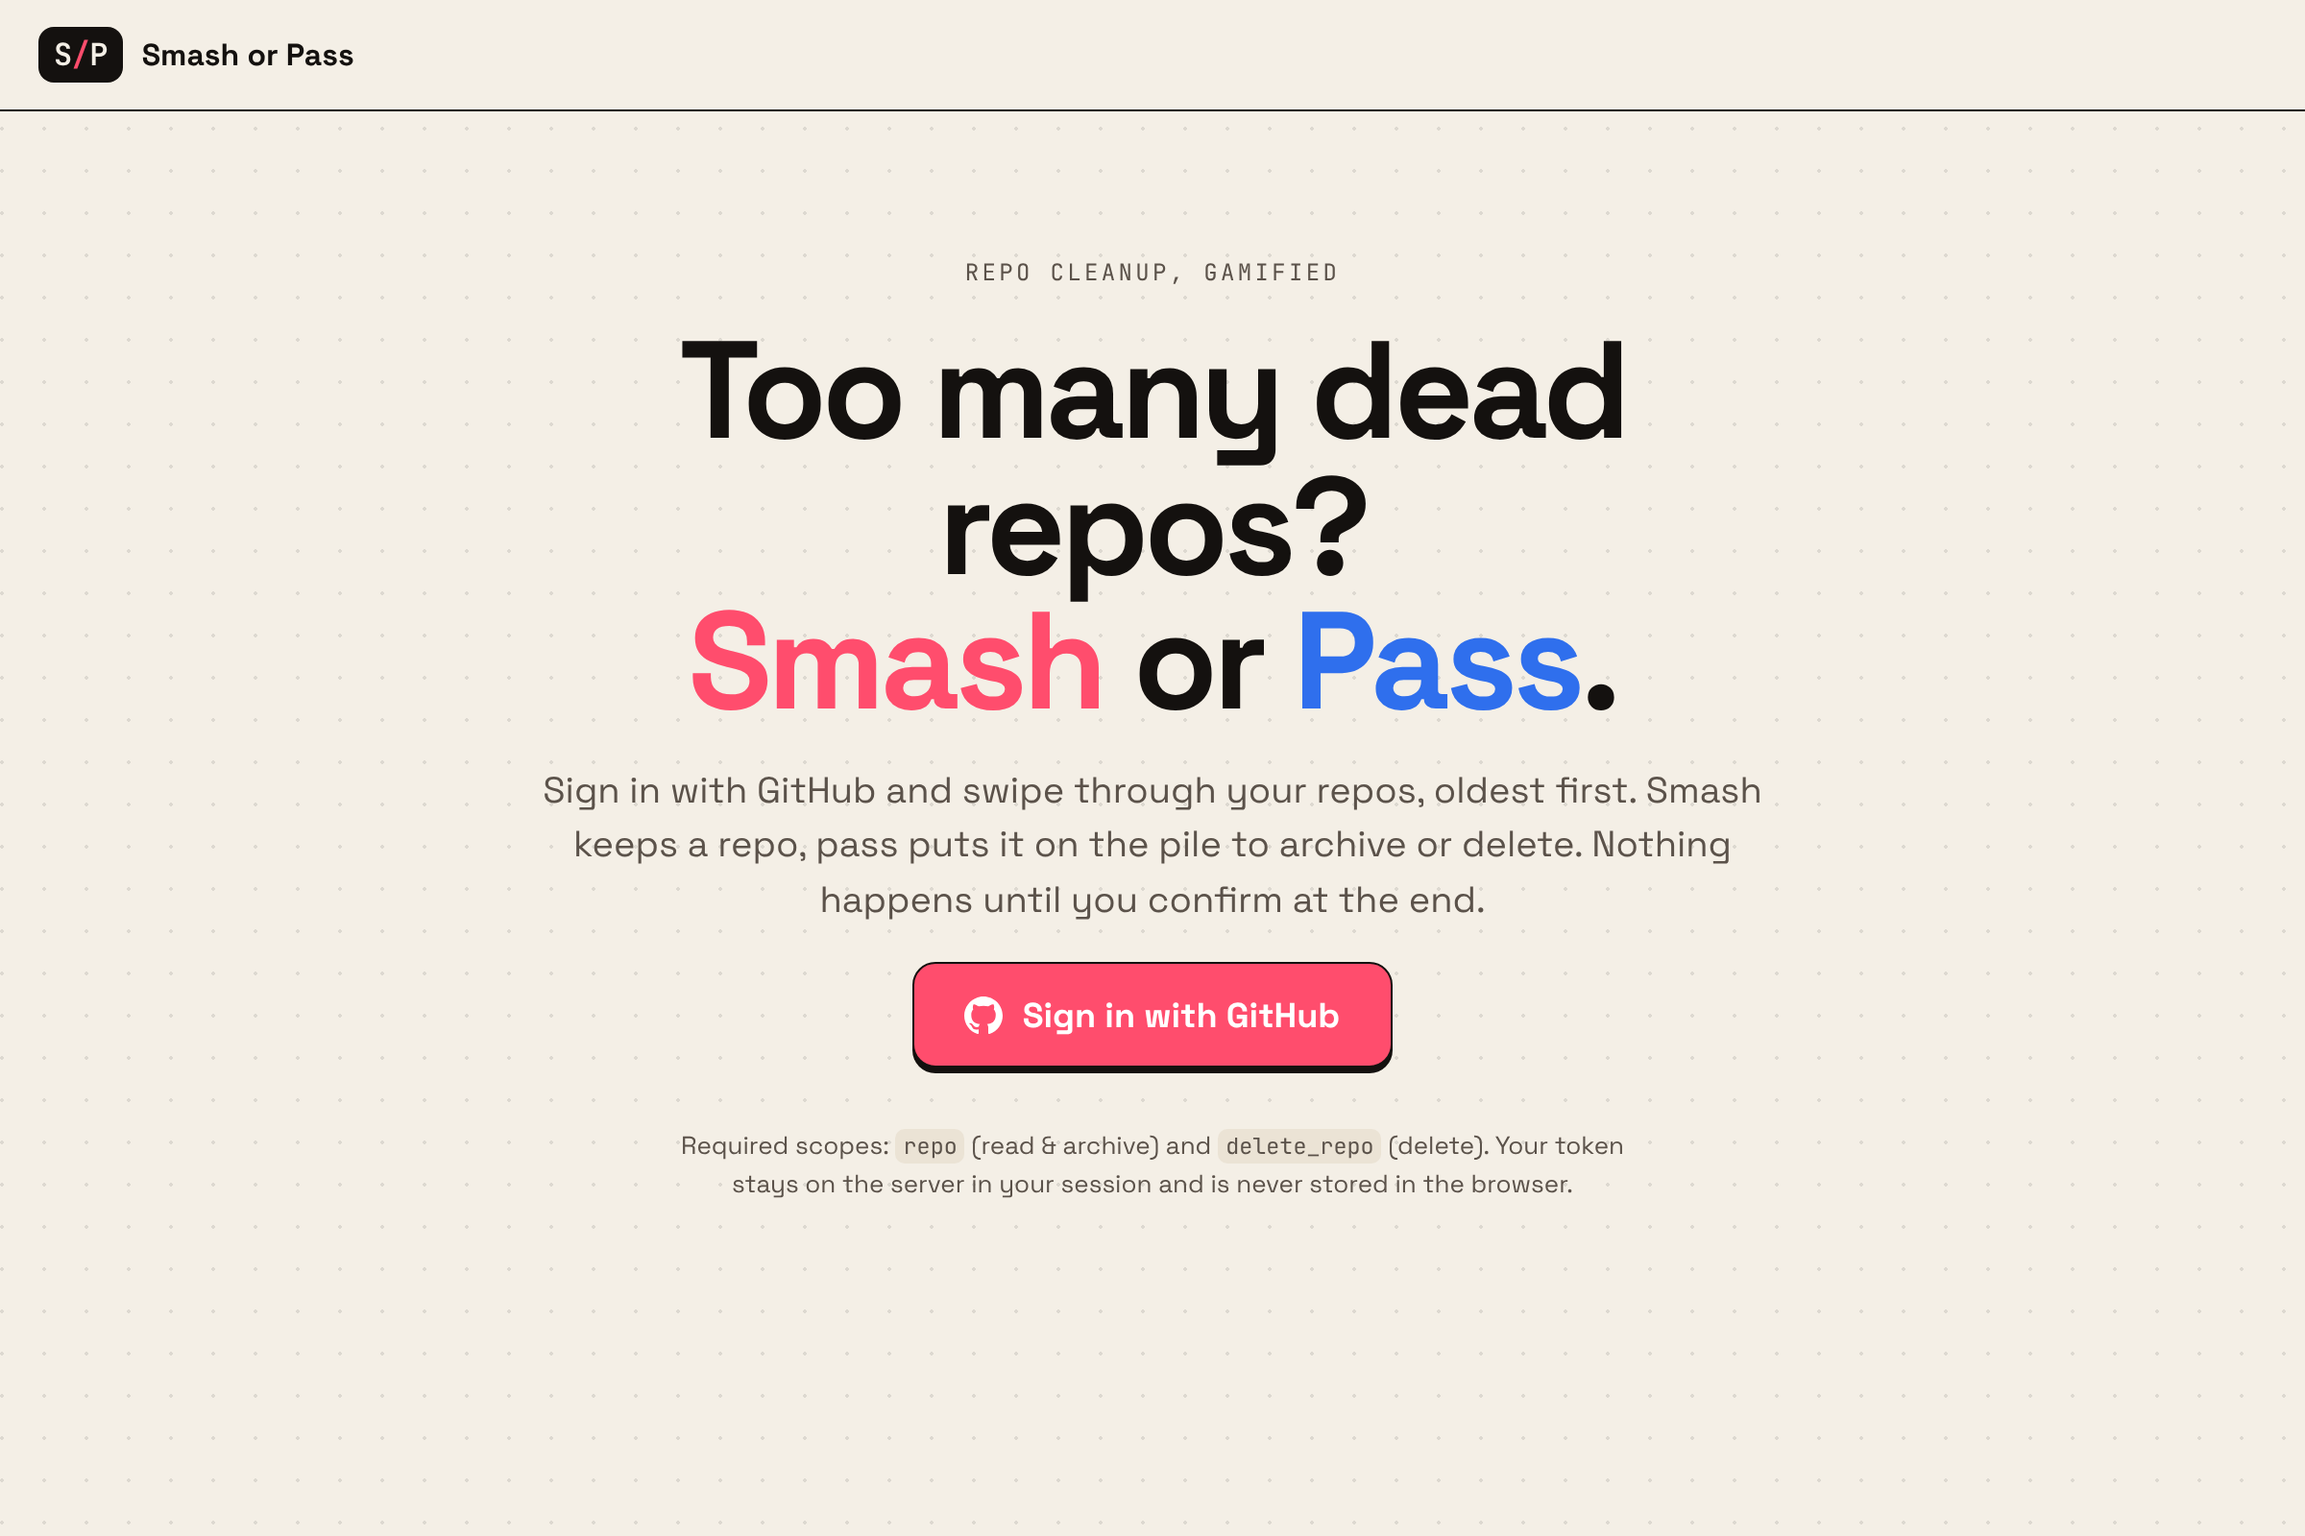
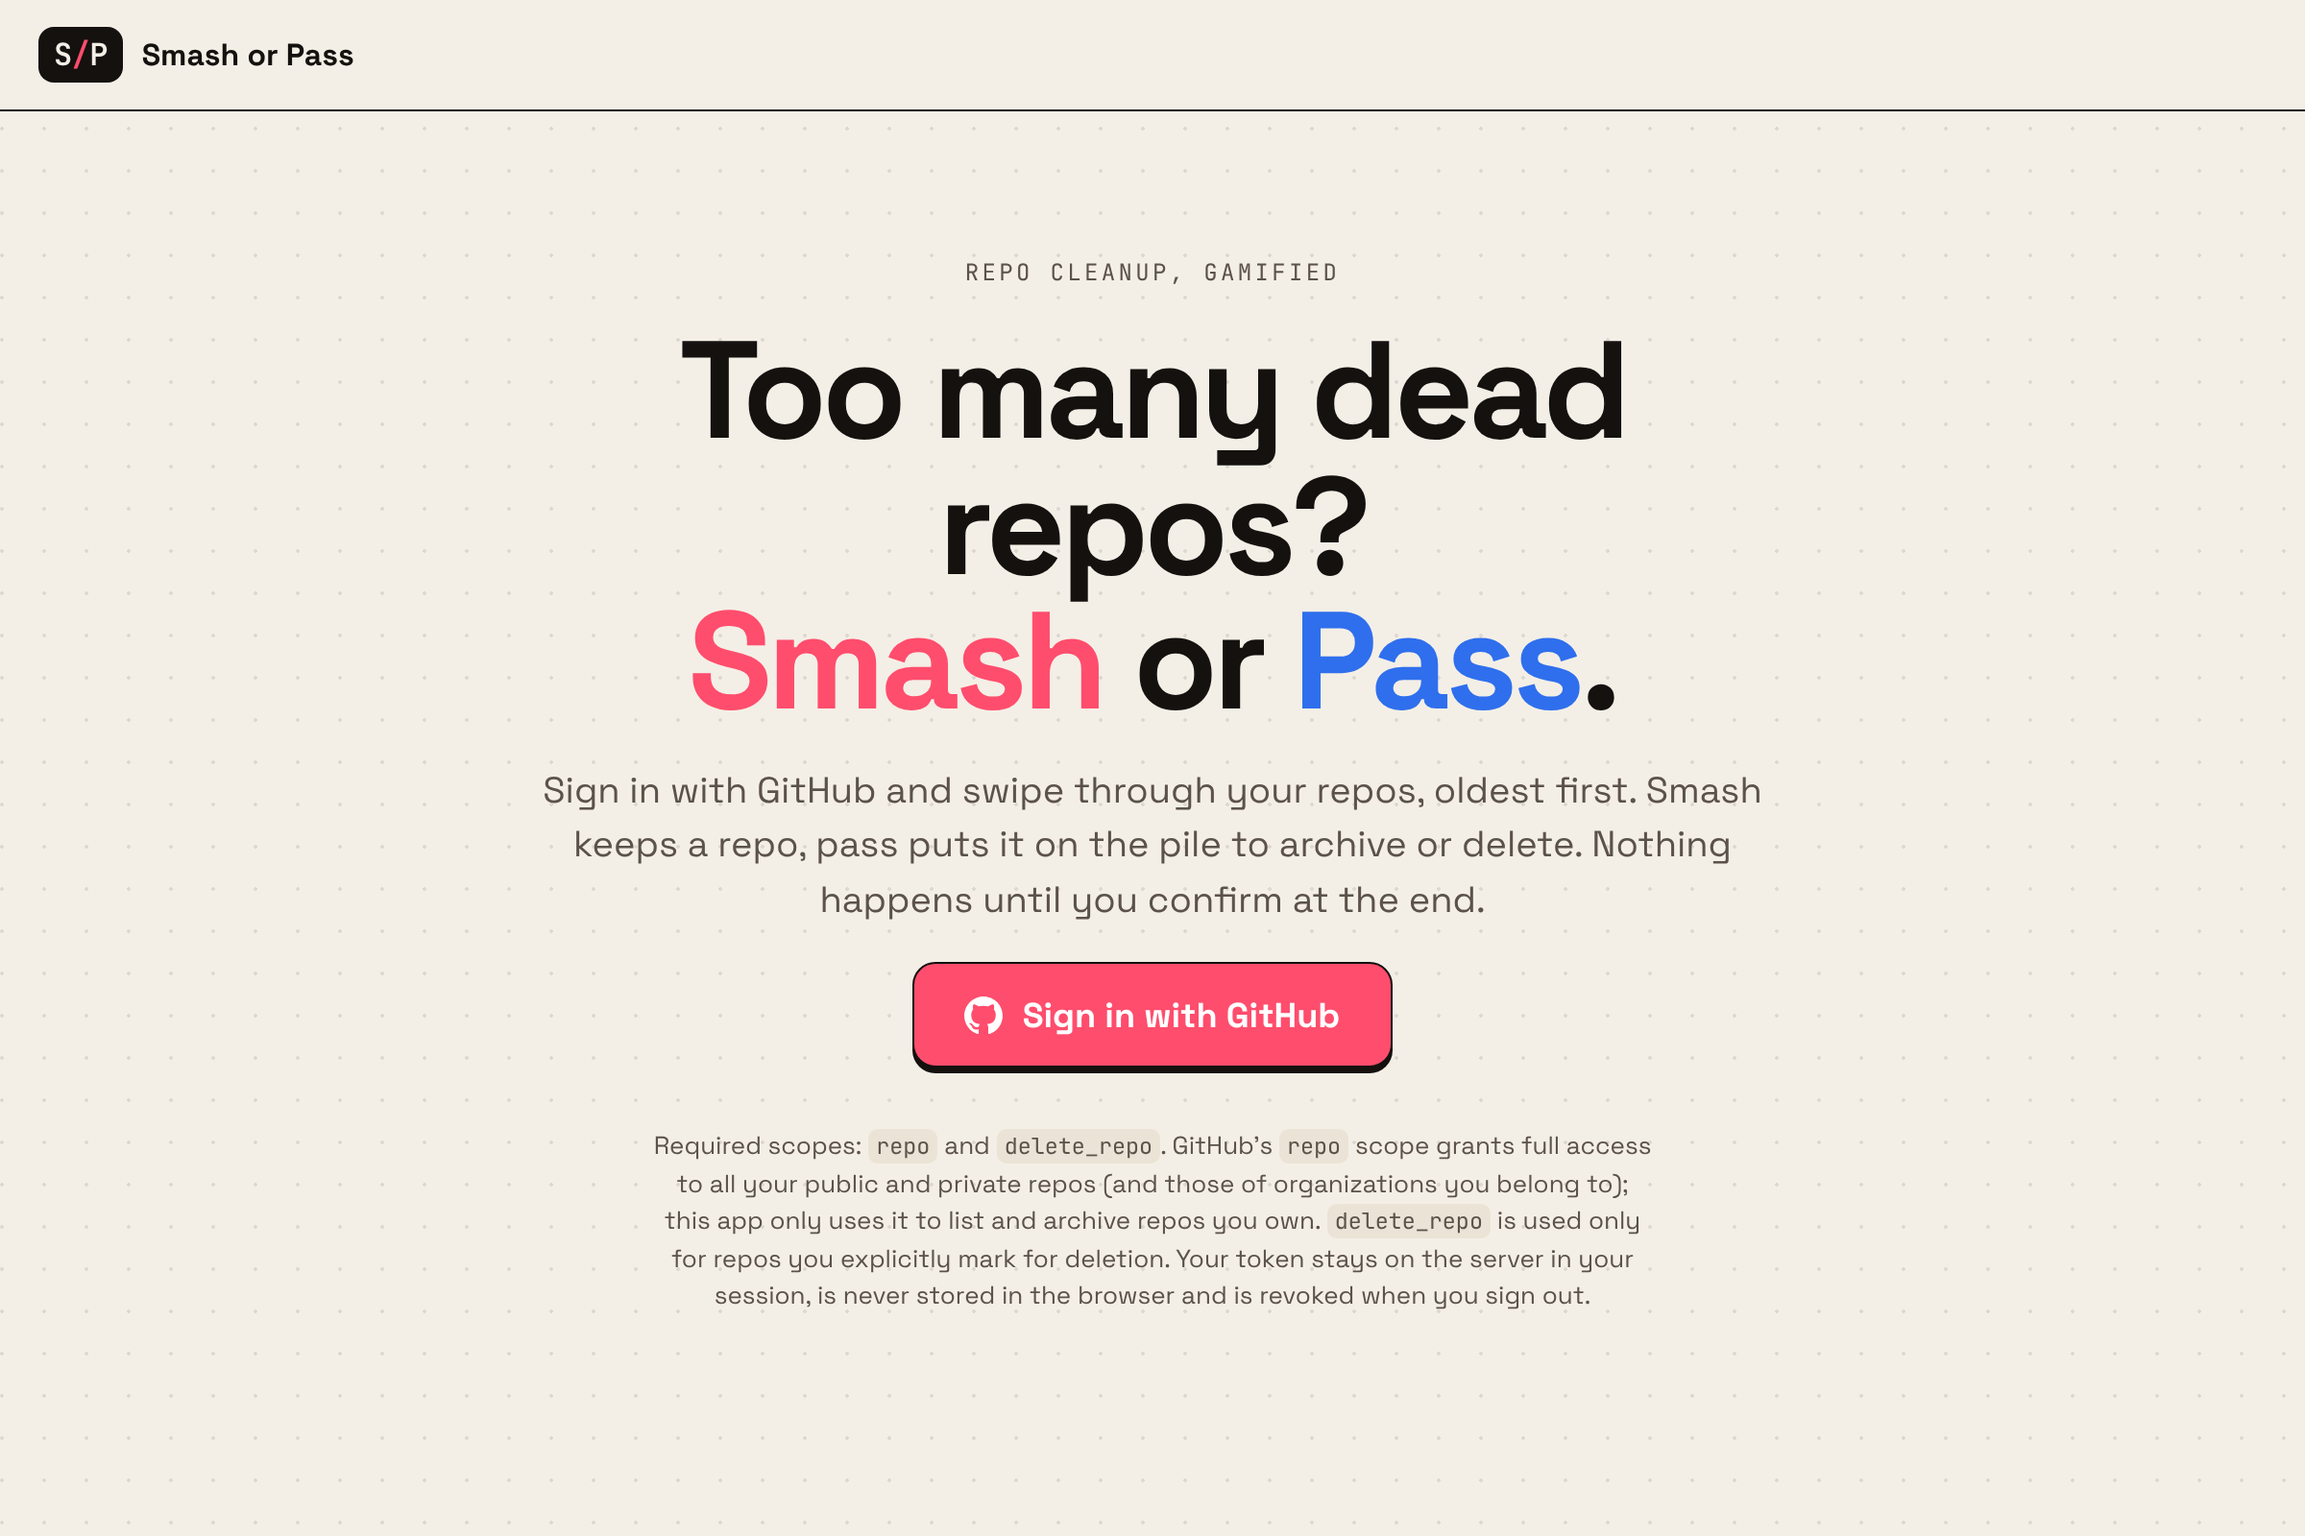
Address CodeRabbit review findings
- Keep the OAuth state in a short lived cookie and create server side
  sessions only after a successful login, so anonymous requests cannot
  exhaust the session store
- Skip malformed cookies instead of failing the request
- Follow GitHub pagination via the Link header without a page cap
- Only commit a swipe on pointerup, never on pointercancel
- Clear stale repos while reloading, keep focus when picking an action,
  block "Play again" while a batch runs, report sign out failures
- Describe the real reach of the repo scope on the login page

Claude-Session: https://claude.ai/code/session_01Lc3ZkSvrXpxHWGorVy9q2e

Changed region(s): [[0.2812, 0.7188, 0.7188, 0.8438]]

diff --git a/server.js b/server.js
@@ -1,5 +1,5 @@
 import http from 'node:http';
-import { randomBytes } from 'node:crypto';
+import { randomBytes, timingSafeEqual } from 'node:crypto';
 import { readFile } from 'node:fs/promises';
 import { extname, join, normalize, dirname, sep } from 'node:path';
 import { fileURLToPath } from 'node:url';
@@ -17,7 +17,7 @@ const CLIENT_SECRET = process.env.GITHUB_CLIENT_SECRET;
 const SECURE_COOKIE = BASE_URL.startsWith('https://');
 const PUBLIC_DIR = join(dirname(fileURLToPath(import.meta.url)), 'public');
 const SESSION_TTL_MS = 1000 * 60 * 60 * 8;
-const LOGIN_TTL_MS = 1000 * 60 * 10; // anonymous sessions only live for the OAuth round trip
+const STATE_TTL_S = 60 * 10; // the OAuth round trip must finish within 10 minutes
 const MAX_SESSIONS = 50_000;
 // repo: read private repos + archive, delete_repo: delete repos
 const OAUTH_SCOPE = 'repo delete_repo read:user';
@@ -48,35 +48,46 @@ function parseCookies(req) {
   const out = {};
   for (const part of (req.headers.cookie || '').split(';')) {
     const i = part.indexOf('=');
-    if (i > 0) out[part.slice(0, i).trim()] = decodeURIComponent(part.slice(i + 1).trim());
+    if (i <= 0) continue;
+    try {
+      out[part.slice(0, i).trim()] = decodeURIComponent(part.slice(i + 1).trim());
+    } catch {
+      // skip malformed cookie values instead of failing the whole request
+    }
   }
   return out;
 }
 
-function getSession(req, res, create = false) {
+function getSession(req) {
   const id = parseCookies(req).sop_sid;
-  const existing = id && sessions.get(id);
-  if (existing && existing.expires > Date.now()) {
-    if (existing.token) existing.expires = Date.now() + SESSION_TTL_MS;
-    return existing;
-  }
-  if (!create) return null;
-  if (sessions.size >= MAX_SESSIONS) return null;
-  const newId = randomBytes(32).toString('hex');
-  const session = { expires: Date.now() + LOGIN_TTL_MS };
-  sessions.set(newId, session);
-  res.setHeader('Set-Cookie', cookie('sop_sid', newId, SESSION_TTL_MS / 1000));
+  const session = id && sessions.get(id);
+  if (!session || session.expires <= Date.now()) return null;
+  session.expires = Date.now() + SESSION_TTL_MS;
   return session;
 }
 
-// New session id after login so a pre-set cookie can never be reused (session fixation)
-function rotateSession(req, res, session) {
+// Sessions are only created after a successful GitHub login, so anonymous
+// requests can never fill the session store. A fresh id is issued every time
+// (no session fixation) and any previous session of this browser is dropped.
+function createSession(req, data) {
   const oldId = parseCookies(req).sop_sid;
   if (oldId) sessions.delete(oldId);
-  const newId = randomBytes(32).toString('hex');
-  session.expires = Date.now() + SESSION_TTL_MS;
-  sessions.set(newId, session);
-  res.setHeader('Set-Cookie', cookie('sop_sid', newId, SESSION_TTL_MS / 1000));
+  if (sessions.size >= MAX_SESSIONS) evictOldestSession();
+  const id = randomBytes(32).toString('hex');
+  sessions.set(id, { ...data, expires: Date.now() + SESSION_TTL_MS });
+  return cookie('sop_sid', id, SESSION_TTL_MS / 1000);
+}
+
+function evictOldestSession() {
+  // Map keeps insertion order, so the first entry is the oldest session
+  const oldest = sessions.keys().next().value;
+  if (oldest) sessions.delete(oldest);
+}
+
+function safeEqual(a, b) {
+  const x = Buffer.from(String(a));
+  const y = Buffer.from(String(b));
+  return x.length === y.length && timingSafeEqual(x, y);
 }
 
 function cookie(name, value, maxAge) {
@@ -151,12 +162,12 @@ async function revokeToken(token) {
 
 async function fetchAllRepos(token) {
   const repos = [];
-  for (let page = 1; page <= 30; page++) {
+  for (let page = 1; ; page++) {
     const r = await github(token, `/user/repos?affiliation=owner&per_page=100&page=${page}&sort=pushed&direction=asc`);
     if (!r.ok) throw Object.assign(new Error(`GitHub ${r.status}`), { status: r.status });
     const batch = await r.json();
     repos.push(...batch);
-    if (batch.length < 100) break;
+    if (batch.length === 0 || !/\brel="next"/.test(r.headers.get('link') || '')) break;
   }
   return repos.map((repo) => ({
     id: repo.id,
@@ -198,7 +209,7 @@ async function sendGithubError(res, r, fallback) {
 const REPO_PATH = /^\/api\/repos\/([A-Za-z0-9-]+)\/([A-Za-z0-9._-]+)(\/archive)?$/;
 
 async function handleApi(req, res, url) {
-  const session = getSession(req, res);
+  const session = getSession(req);
 
   if (url.pathname === '/api/me') {
     if (!session?.token) return sendJson(res, 401, { error: 'not_authenticated' });
@@ -242,24 +253,27 @@ async function handleApi(req, res, url) {
 
 async function handleAuth(req, res, url) {
   if (url.pathname === '/auth/login') {
-    const session = getSession(req, res, true);
-    if (!session) return sendJson(res, 503, { error: 'Too many sessions, try again later' });
-    session.state = randomBytes(16).toString('hex');
+    // The OAuth state lives in a short-lived HttpOnly cookie, nothing is stored server side
+    const state = randomBytes(16).toString('hex');
+    res.setHeader('Set-Cookie', cookie('sop_state', state, STATE_TTL_S));
     const params = new URLSearchParams({
       client_id: CLIENT_ID,
       redirect_uri: `${BASE_URL}/auth/callback`,
       scope: OAUTH_SCOPE,
-      state: session.state,
+      state,
       allow_signup: 'false',
     });
     return redirect(res, `https://github.com/login/oauth/authorize?${params}`);
   }
 
   if (url.pathname === '/auth/callback') {
-    const session = getSession(req, res);
     const { code, state } = Object.fromEntries(url.searchParams);
-    if (!session || !code || !state || state !== session.state) return redirect(res, '/?error=state');
-    delete session.state;
+    const expectedState = parseCookies(req).sop_state;
+    const clearState = cookie('sop_state', '', 0);
+    if (!code || !state || !expectedState || !safeEqual(state, expectedState)) {
+      res.setHeader('Set-Cookie', clearState);
+      return redirect(res, '/?error=state');
+    }
 
     const tokenRes = await fetch('https://github.com/login/oauth/access_token', {
       method: 'POST',
@@ -272,21 +286,29 @@ async function handleAuth(req, res, url) {
       }),
     });
     const tokenData = await tokenRes.json().catch(() => ({}));
-    if (!tokenData.access_token) return redirect(res, '/?error=token');
+    if (!tokenData.access_token) {
+      res.setHeader('Set-Cookie', clearState);
+      return redirect(res, '/?error=token');
+    }
 
     const userRes = await github(tokenData.access_token, '/user');
-    if (!userRes.ok) return redirect(res, '/?error=user');
+    if (!userRes.ok) {
+      res.setHeader('Set-Cookie', clearState);
+      return redirect(res, '/?error=user');
+    }
     const user = await userRes.json();
 
-    session.token = tokenData.access_token;
-    session.user = { login: user.login, name: user.name, avatar_url: user.avatar_url, html_url: user.html_url };
-    rotateSession(req, res, session);
+    const sessionCookie = createSession(req, {
+      token: tokenData.access_token,
+      user: { login: user.login, name: user.name, avatar_url: user.avatar_url, html_url: user.html_url },
+    });
+    res.setHeader('Set-Cookie', [sessionCookie, clearState]);
     return redirect(res, '/');
   }
 
   if (url.pathname === '/auth/logout' && req.method === 'POST') {
     if (!isTrustedMutation(req)) return sendJson(res, 403, { error: 'forbidden' });
-    const session = getSession(req, res);
+    const session = getSession(req);
     if (session?.token) await revokeToken(session.token);
     destroySession(req, res);
     return sendJson(res, 200, { ok: true });

diff --git a/public/app.js b/public/app.js
@@ -95,6 +95,8 @@ async function boot() {
 }
 
 async function loadRepos() {
+  state.repos = [];
+  updateFilterCount();
   $('#repo-count').textContent = 'Loading repos…';
   try {
     state.repos = await api('/api/repos');
@@ -249,10 +251,10 @@ function attachDrag(card) {
     smash.style.opacity = Math.max(0, Math.min(1, dx / 100));
     pass.style.opacity = Math.max(0, Math.min(1, -dx / 100));
   });
-  const end = () => {
+  const end = (e) => {
     if (!dragging) return;
     dragging = false;
-    if (Math.abs(dx) > 110) return decide(dx > 0 ? 'smash' : 'pass');
+    if (e.type === 'pointerup' && Math.abs(dx) > 110) return decide(dx > 0 ? 'smash' : 'pass');
     card.classList.remove('dragging');
     card.style.transform = '';
     smash.style.opacity = pass.style.opacity = '0';
@@ -303,7 +305,8 @@ function renderReview() {
       b.setAttribute('aria-pressed', String(current === act));
       b.addEventListener('click', () => {
         state.actions.set(repo.full_name, act);
-        renderReview();
+        for (const other of seg.children) other.setAttribute('aria-pressed', String(other === b));
+        updateSummary();
       });
       seg.append(b);
     }
@@ -378,6 +381,8 @@ $('#btn-execute').addEventListener('click', async () => {
   show('done');
   const list = $('#result-list');
   list.replaceChildren();
+  const restart = $('#btn-restart');
+  restart.disabled = true;
 
   for (const { repo, act } of todo) {
     const status = el('span', { className: 'status', textContent: act === 'delete' ? 'deleting…' : 'archiving…' });
@@ -393,6 +398,7 @@ $('#btn-execute').addEventListener('click', async () => {
       status.classList.add('fail');
     }
   }
+  restart.disabled = false;
 });
 
 $('#btn-restart').addEventListener('click', async () => {
@@ -401,8 +407,16 @@ $('#btn-restart').addEventListener('click', async () => {
 });
 
 $('#logout').addEventListener('click', async () => {
-  await api('/auth/logout', { method: 'POST' }).catch(() => {});
-  location.href = '/';
+  const btn = $('#logout');
+  btn.disabled = true;
+  try {
+    await api('/auth/logout', { method: 'POST' });
+    location.href = '/';
+  } catch (err) {
+    if (err.message === 'Not signed in') return void (location.href = '/');
+    btn.disabled = false;
+    alert(`Sign out failed: ${err.message}. Please try again.`);
+  }
 });
 
 boot();

diff --git a/public/index.html b/public/index.html
@@ -34,7 +34,7 @@
           <svg viewBox="0 0 16 16" width="20" height="20" aria-hidden="true"><path fill="currentColor" d="M8 0C3.58 0 0 3.58 0 8c0 3.54 2.29 6.53 5.47 7.59.4.07.55-.17.55-.38 0-.19-.01-.82-.01-1.49-2.01.37-2.53-.49-2.69-.94-.09-.23-.48-.94-.82-1.13-.28-.15-.68-.52-.01-.53.63-.01 1.08.58 1.23.82.72 1.21 1.87.87 2.33.66.07-.52.28-.87.51-1.07-1.78-.2-3.64-.89-3.64-3.95 0-.87.31-1.59.82-2.15-.08-.2-.36-1.02.08-2.12 0 0 .67-.21 2.2.82.64-.18 1.32-.27 2-.27.68 0 1.36.09 2 .27 1.53-1.04 2.2-.82 2.2-.82.44 1.1.16 1.92.08 2.12.51.56.82 1.27.82 2.15 0 3.07-1.87 3.75-3.65 3.95.29.25.54.73.54 1.48 0 1.07-.01 1.93-.01 2.2 0 .21.15.46.55.38A8.013 8.013 0 0016 8c0-4.42-3.58-8-8-8z"/></svg>
           Sign in with GitHub
         </a>
-        <p class="fineprint">Required scopes: <code>repo</code> (read &amp; archive) and <code>delete_repo</code> (delete). Your token stays on the server in your session and is never stored in the browser.</p>
+        <p class="fineprint">Required scopes: <code>repo</code> and <code>delete_repo</code>. GitHub's <code>repo</code> scope grants full access to all your public and private repos (and those of organizations you belong to); this app only uses it to list and archive repos you own. <code>delete_repo</code> is used only for repos you explicitly mark for deletion. Your token stays on the server in your session, is never stored in the browser and is revoked when you sign out.</p>
         <p id="login-error" class="error" hidden></p>
       </div>
     </section>

diff --git a/README.md b/README.md
@@ -126,7 +126,7 @@ Only repos **owned by you** are listed and can be changed. Organization repos ar
 Deleting repos is serious, so the app is built defensively:
 
 - The OAuth token **never reaches the browser**. It lives in a server side session referenced by a random `HttpOnly`, `SameSite=Lax` cookie (`Secure` on HTTPS).
-- The OAuth `state` parameter protects the login flow against CSRF, and the session id is **rotated after login** to prevent session fixation.
+- The OAuth `state` parameter (kept in a short lived `HttpOnly` cookie) protects the login flow against CSRF. Server side sessions are **only created after a successful login** with a fresh id, so anonymous visitors can't fill the session store and session fixation is impossible.
 - Every mutating request requires a custom `X-Requested-With` header and a matching `Origin`, so other sites cannot trigger archive or delete calls.
 - The server only allows archive and delete for repos whose owner is the signed in user.
 - On sign out the token is **revoked on GitHub**, not just forgotten.
